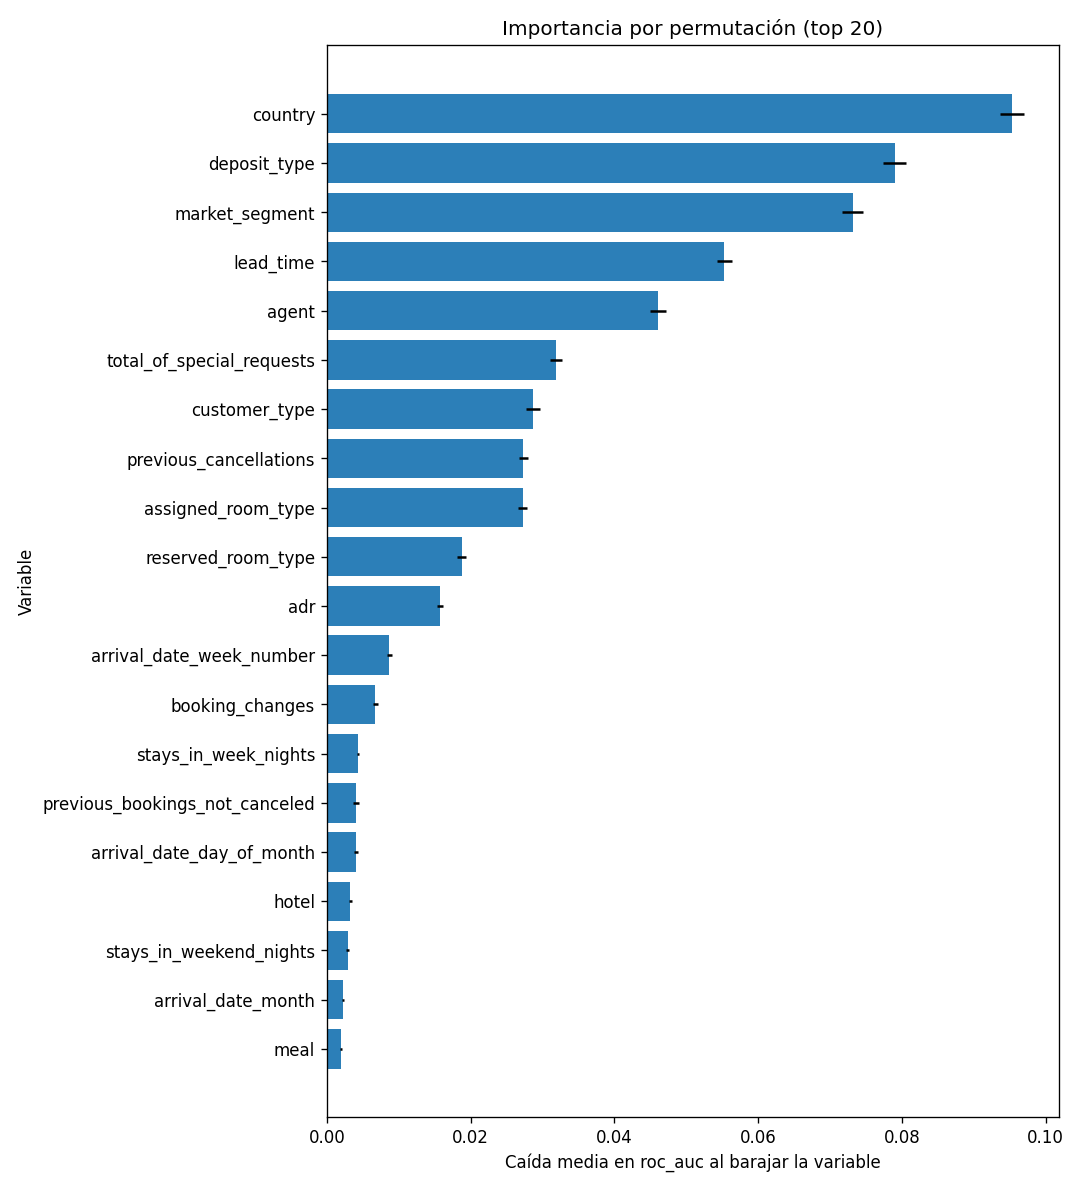
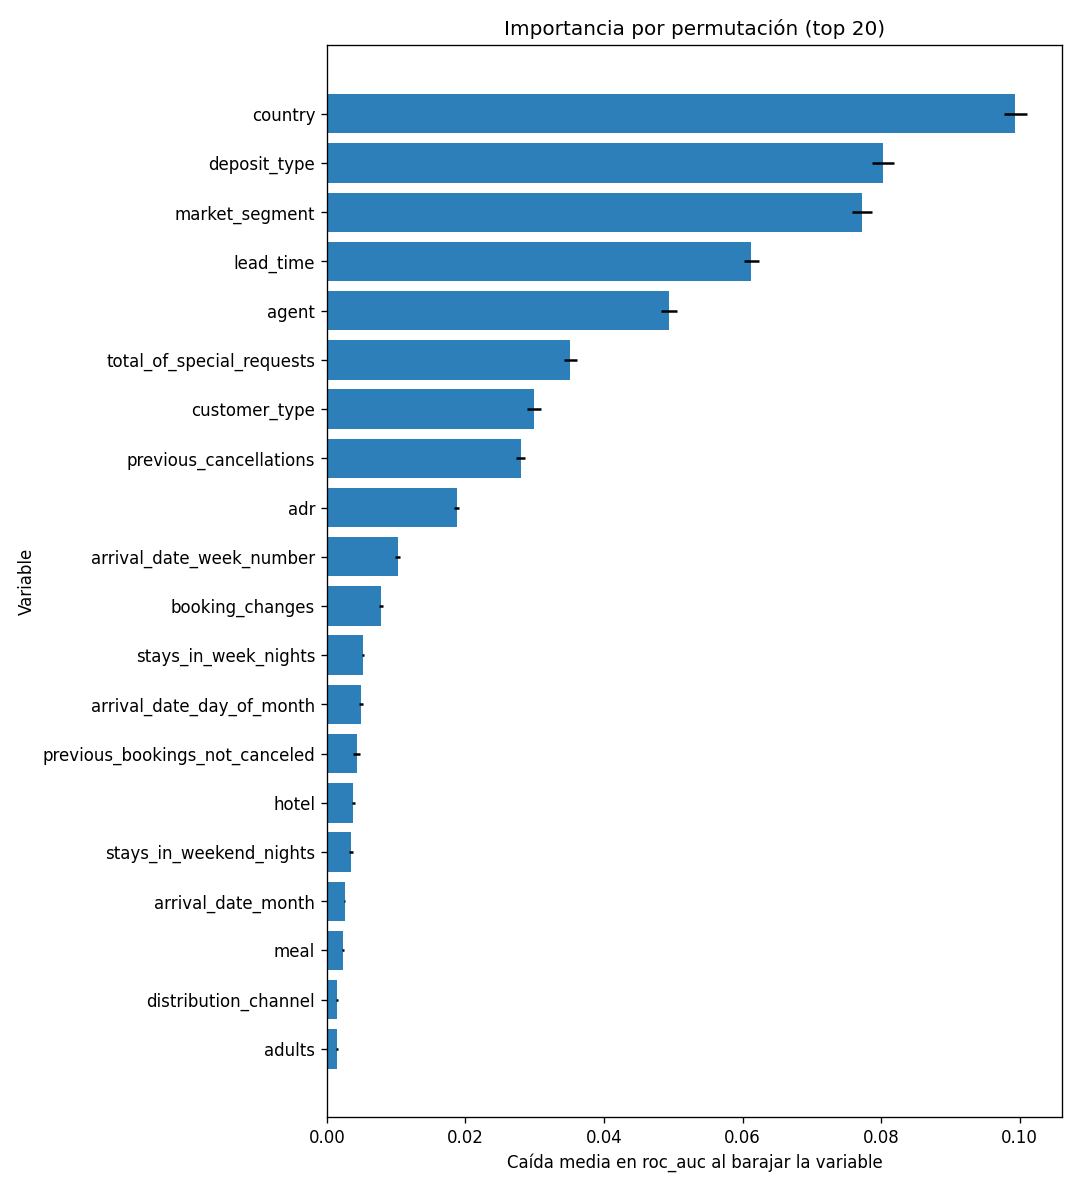
docs: añadir figura de cabecera al README y regenerar outputs
README: tira de regiones de decisión como cabecera. Figuras de outputs/
regeneradas (permutation_importance, shap_summary_beeswarm y
playground_regiones_pls) al re-ejecutar los notebooks.

diff --git a/README.md b/README.md
@@ -9,6 +9,9 @@
 (antelación, tipo de hotel, país del cliente, precio, etc.) estima la
 **probabilidad de que esa reserva se cancele**.
 
+![Regiones de decisión de los cinco modelos](outputs/decision_regions_strip.png)
+
+
 ---
 
 ## 📋 Resumen del proyecto
